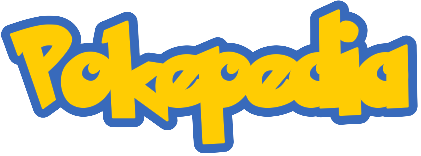
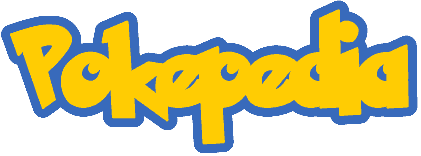
refactor: remove unnecessary style code and compress image

diff --git a/src/styles.scss b/src/styles.scss
@@ -7,7 +7,6 @@ body {
   min-height: 100vh;
   display: flex;
   justify-content: center;
-  background: linear-gradient(to bottom, black 99%, purple);
 }
 
 .spacer {
@@ -20,10 +19,4 @@ body {
 
 .background {
   background-image: url("assets/background.svg");
-}
-
-.error-snackbar {
-  background-color: #f44336;
-  border-radius: 5px;
-  color: #fff;
 }
